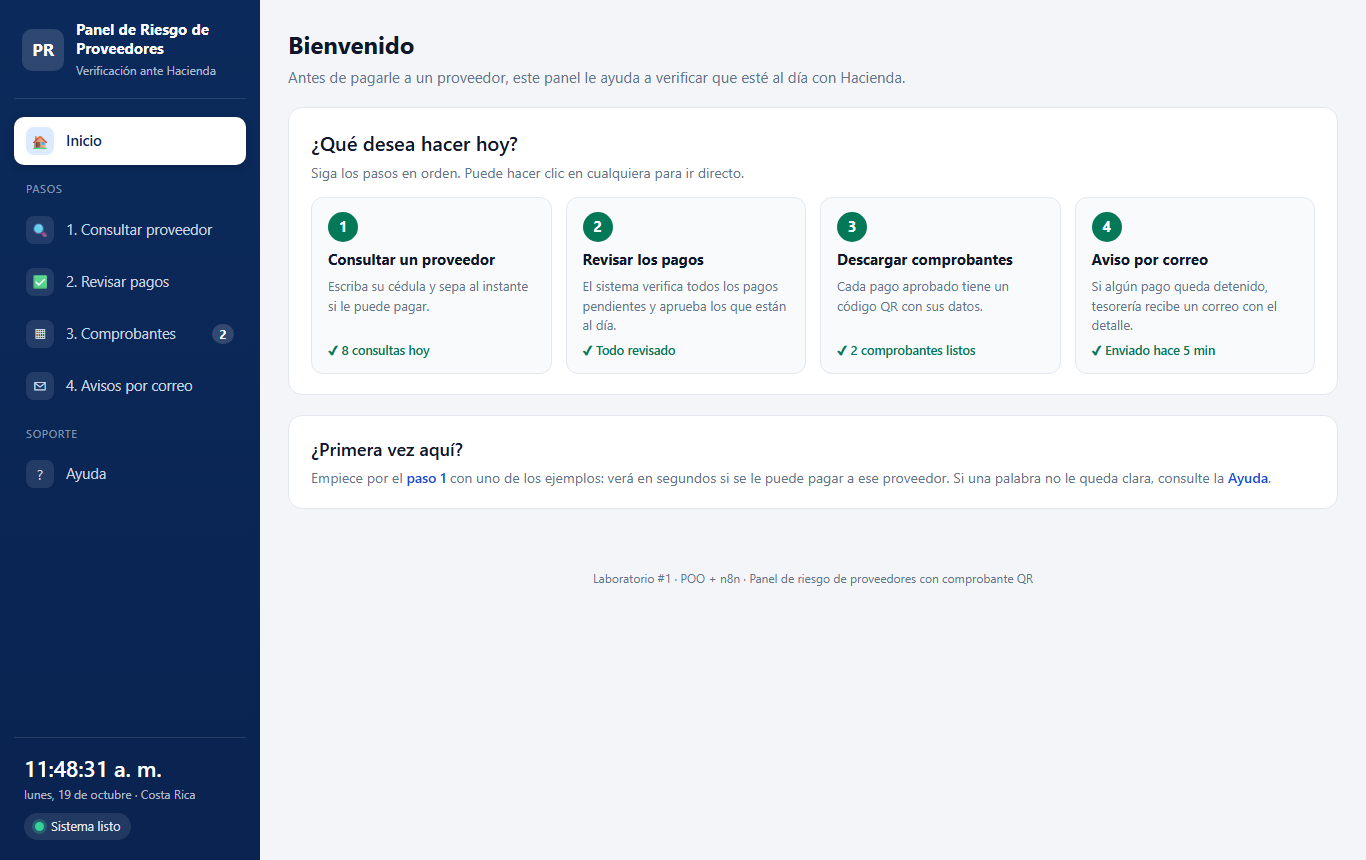
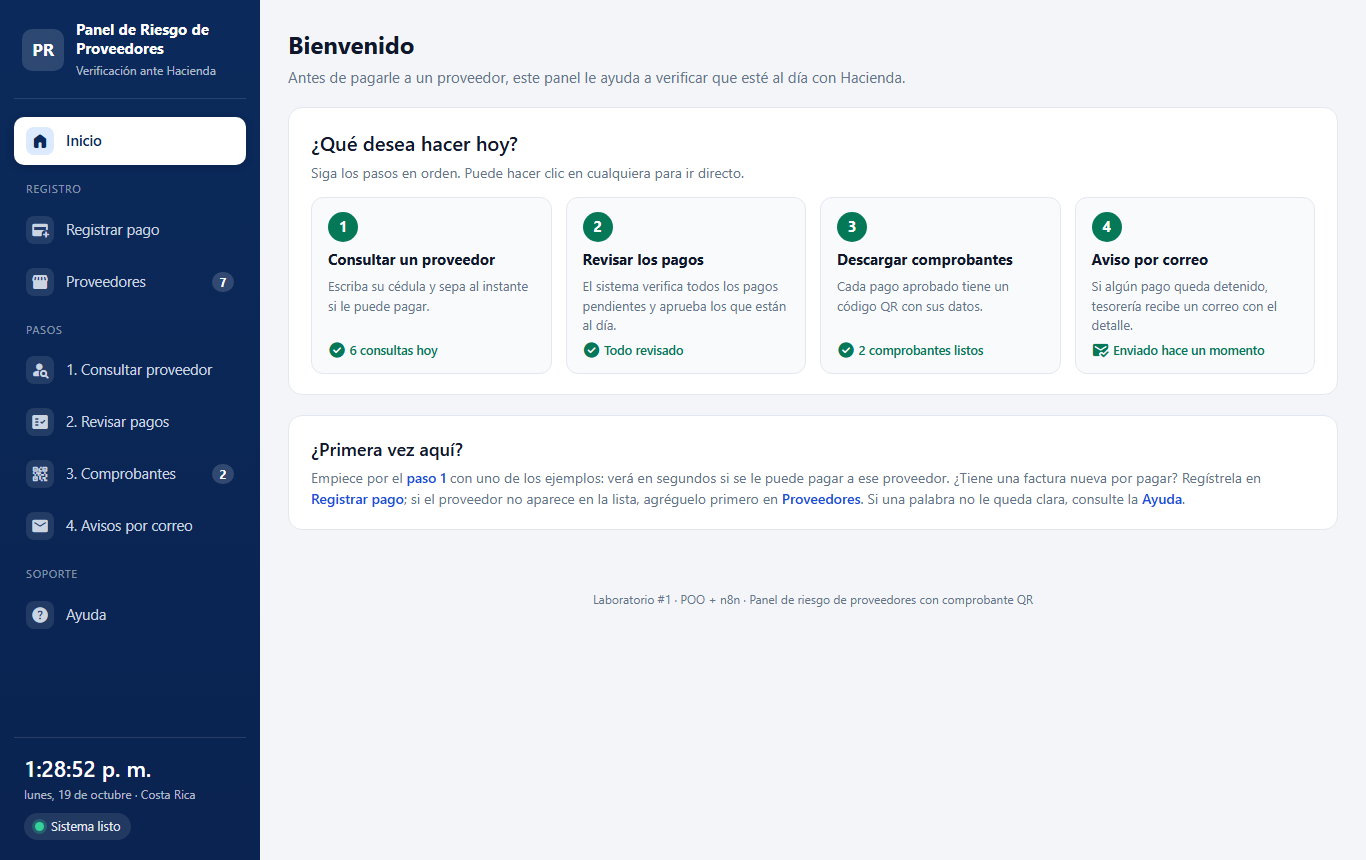
Panel: íconos de Google Fonts (Material Symbols) y capturas de los formularios
- Emojis reemplazados por Material Symbols Rounded en menú, indicadores, avance y mensajes
- Formularios de pagos y proveedores probados: validación, alta, duplicados y activar/desactivar
- README y documento con las pantallas de registro

diff --git a/public/index.html b/public/index.html
@@ -4,6 +4,9 @@
 <meta charset="utf-8">
 <meta name="viewport" content="width=device-width, initial-scale=1">
 <title>Panel de Riesgo de Proveedores</title>
+<link rel="preconnect" href="https://fonts.googleapis.com">
+<link rel="preconnect" href="https://fonts.gstatic.com" crossorigin>
+<link rel="stylesheet" href="https://fonts.googleapis.com/css2?family=Material+Symbols+Rounded:opsz,wght,FILL,GRAD@20..48,400..600,0..1,0&display=block">
 <style>
   :root {
     --fondo: #f3f5f9; --tarjeta: #ffffff; --borde: #e3e8f0; --texto: #0f172a; --suave: #64748b;
@@ -11,6 +14,19 @@
     --aviso: #b45309; --aviso-bg: #fef3c7; --gris-bg: #eef2f7; --info: #1d4ed8; --info-bg: #dbeafe;
   }
   * { box-sizing: border-box; }
+  /* Íconos de Google Fonts: <span class="ms">nombre</span> */
+  .ms { font-family: 'Material Symbols Rounded'; font-weight: normal; font-style: normal; font-size: 20px; line-height: 1; letter-spacing: normal; text-transform: none; display: inline-block; white-space: nowrap; direction: ltr; -webkit-font-smoothing: antialiased; font-variation-settings: 'FILL' 1, 'wght' 500, 'GRAD' 0, 'opsz' 24; vertical-align: -4px; user-select: none; }
+  .ms.linea { font-variation-settings: 'FILL' 0, 'wght' 500, 'GRAD' 0, 'opsz' 24; }
+  .icono-menu .ms { font-size: 18px; vertical-align: 0; }
+  .seccion-titulo .num .ms { font-size: 20px; vertical-align: 0; }
+  .veredicto .icono .ms { font-size: 22px; vertical-align: 0; font-variation-settings: 'FILL' 1, 'wght' 700, 'GRAD' 0, 'opsz' 24; }
+  .progreso li .marca .ms { font-size: 15px; vertical-align: 0; font-variation-settings: 'FILL' 1, 'wght' 700, 'GRAD' 0, 'opsz' 20; }
+  .correo-estado .icono .ms { font-size: 30px; vertical-align: 0; color: var(--marca-2); }
+  .kpi .rotulo .ms { font-size: 18px; color: var(--c); }
+  .paso .estado .ms, .mensaje-form .ms { font-size: 18px; }
+  #progreso-titulo .ms { color: var(--ok); }
+  details.glosario summary .ms { color: var(--marca-2); }
+  .ayuda .ms { font-size: 17px; color: #ca8a04; }
   html { scroll-behavior: smooth; }
   body { margin: 0; background: var(--fondo); color: var(--texto); font: 15px/1.5 'Segoe UI', system-ui, -apple-system, Arial, sans-serif; }
   /* Estructura: menú lateral + contenido */
@@ -217,17 +233,17 @@
   </div>
   <nav aria-label="Menú principal">
     <ul class="menu">
-      <li><a href="#inicio" data-vista="inicio"><span class="icono-menu">🏠</span>Inicio</a></li>
+      <li><a href="#inicio" data-vista="inicio"><span class="icono-menu"><span class="ms" aria-hidden="true">home</span></span>Inicio</a></li>
       <li class="titulo-grupo">Registro</li>
-      <li><a href="#nuevo-pago" data-vista="nuevo-pago"><span class="icono-menu">＋</span>Registrar pago</a></li>
-      <li><a href="#proveedores" data-vista="proveedores"><span class="icono-menu">🏢</span>Proveedores<span class="contador" id="m-proveedores"></span></a></li>
+      <li><a href="#nuevo-pago" data-vista="nuevo-pago"><span class="icono-menu"><span class="ms" aria-hidden="true">add_card</span></span>Registrar pago</a></li>
+      <li><a href="#proveedores" data-vista="proveedores"><span class="icono-menu"><span class="ms" aria-hidden="true">storefront</span></span>Proveedores<span class="contador" id="m-proveedores"></span></a></li>
       <li class="titulo-grupo">Pasos</li>
-      <li><a href="#paso1" data-vista="paso1"><span class="icono-menu">🔍</span>1. Consultar proveedor</a></li>
-      <li><a href="#paso2" data-vista="paso2"><span class="icono-menu">✅</span>2. Revisar pagos<span class="contador alerta-c" id="m-pendientes"></span></a></li>
-      <li><a href="#paso3" data-vista="paso3"><span class="icono-menu">▦</span>3. Comprobantes<span class="contador" id="m-comprobantes"></span></a></li>
-      <li><a href="#paso4" data-vista="paso4"><span class="icono-menu">✉</span>4. Avisos por correo</a></li>
+      <li><a href="#paso1" data-vista="paso1"><span class="icono-menu"><span class="ms" aria-hidden="true">person_search</span></span>1. Consultar proveedor</a></li>
+      <li><a href="#paso2" data-vista="paso2"><span class="icono-menu"><span class="ms" aria-hidden="true">fact_check</span></span>2. Revisar pagos<span class="contador alerta-c" id="m-pendientes"></span></a></li>
+      <li><a href="#paso3" data-vista="paso3"><span class="icono-menu"><span class="ms" aria-hidden="true">qr_code_2</span></span>3. Comprobantes<span class="contador" id="m-comprobantes"></span></a></li>
+      <li><a href="#paso4" data-vista="paso4"><span class="icono-menu"><span class="ms" aria-hidden="true">mail</span></span>4. Avisos por correo</a></li>
       <li class="titulo-grupo">Soporte</li>
-      <li><a href="#ayuda" data-vista="ayuda"><span class="icono-menu">?</span>Ayuda</a></li>
+      <li><a href="#ayuda" data-vista="ayuda"><span class="icono-menu"><span class="ms" aria-hidden="true">help</span></span>Ayuda</a></li>
     </ul>
   </nav>
   <div class="pie-sidebar">
@@ -284,7 +300,7 @@
 
   <!-- REGISTRAR PAGO -->
   <section class="tarjeta vista" id="nuevo-pago">
-    <div class="seccion-titulo"><span class="num">＋</span><h2>Registrar un pago nuevo</h2></div>
+    <div class="seccion-titulo"><span class="num"><span class="ms" aria-hidden="true">add_card</span></span><h2>Registrar un pago nuevo</h2></div>
     <p class="sub">Anote aquí cada factura que haya que pagarle a un proveedor. Queda como <b>«Por revisar»</b> hasta que la revisión del paso 2 la verifique en Hacienda.</p>
     <form id="form-pago" class="formulario" novalidate>
       <label class="campo ancho">Proveedor
@@ -315,7 +331,7 @@
 
   <!-- PROVEEDORES -->
   <section class="tarjeta vista" id="proveedores">
-    <div class="seccion-titulo"><span class="num">🏢</span><h2>Proveedores de la empresa</h2></div>
+    <div class="seccion-titulo"><span class="num"><span class="ms" aria-hidden="true">storefront</span></span><h2>Proveedores de la empresa</h2></div>
     <p class="sub">Solo se les puede registrar pagos a los proveedores de esta lista. Un proveedor <b>inactivo</b> no recibe pagos (sus pagos quedan detenidos).</p>
     <div class="rejilla">
       <div>
@@ -367,7 +383,7 @@
           <input type="text" id="cedula" placeholder="Cédula, por ejemplo 3-101-123456" autocomplete="off" required aria-label="Cédula del proveedor">
           <button type="submit" id="btn">Consultar</button>
         </form>
-        <div class="ayuda">💡 La cédula aparece en la factura electrónica del proveedor. Puede escribirla con o sin guiones.</div>
+        <div class="ayuda"><span class="ms" aria-hidden="true">lightbulb</span> La cédula aparece en la factura electrónica del proveedor. Puede escribirla con o sin guiones.</div>
         <div class="ejemplos">Ejemplos para probar:
           <span class="chip" data-c="4000042149">Universidad de Costa Rica</span>
           <span class="chip" data-c="4000042139">ICE</span>
@@ -422,10 +438,10 @@
     </div>
 
     <div class="kpis">
-      <div class="kpi" style="--c:#047857"><div class="rotulo">✔ Aprobados</div><div class="valor" id="k-aprobado">–</div><div class="detalle" id="k-monto">—</div></div>
-      <div class="kpi" style="--c:#b91c1c"><div class="rotulo">✖ Detenidos</div><div class="valor" id="k-retenido">–</div><div class="detalle">No pagar hasta resolver</div></div>
-      <div class="kpi" style="--c:#1d4ed8"><div class="rotulo">👤 Necesitan aprobación</div><div class="valor" id="k-revision_manual">–</div><div class="detalle">Los decide un supervisor</div></div>
-      <div class="kpi" style="--c:#b45309"><div class="rotulo">⏳ Por revisar</div><div class="valor" id="k-pendientes">–</div><div class="detalle">Esperando la revisión</div></div>
+      <div class="kpi" style="--c:#047857"><div class="rotulo"><span class="ms" aria-hidden="true">check_circle</span> Aprobados</div><div class="valor" id="k-aprobado">–</div><div class="detalle" id="k-monto">—</div></div>
+      <div class="kpi" style="--c:#b91c1c"><div class="rotulo"><span class="ms" aria-hidden="true">block</span> Detenidos</div><div class="valor" id="k-retenido">–</div><div class="detalle">No pagar hasta resolver</div></div>
+      <div class="kpi" style="--c:#1d4ed8"><div class="rotulo"><span class="ms" aria-hidden="true">supervisor_account</span> Necesitan aprobación</div><div class="valor" id="k-revision_manual">–</div><div class="detalle">Los decide un supervisor</div></div>
+      <div class="kpi" style="--c:#b45309"><div class="rotulo"><span class="ms" aria-hidden="true">hourglass_top</span> Por revisar</div><div class="valor" id="k-pendientes">–</div><div class="detalle">Esperando la revisión</div></div>
     </div>
 
     <div class="barra">
@@ -459,7 +475,7 @@
   <section class="tarjeta vista" id="paso4">
     <div class="seccion-titulo"><span class="num">4</span><h2>Avisos por correo a tesorería</h2></div>
     <p class="sub">Después de cada revisión, si hay pagos detenidos o que necesitan aprobación, se envía un correo con el resumen. Si todo sale aprobado, no se envía nada.</p>
-    <div class="correo-estado" id="correo-estado"><span class="icono">✉</span><div>Cargando…</div></div>
+    <div class="correo-estado" id="correo-estado"><span class="icono"><span class="ms" aria-hidden="true">mail</span></span><div>Cargando…</div></div>
     <div class="tabla-scroll">
       <table>
         <thead><tr><th>Revisión</th><th>Resultado</th><th>Correo</th></tr></thead>
@@ -471,7 +487,7 @@
 
   <section class="tarjeta vista" id="ayuda">
     <details class="glosario" open>
-      <summary>📖 ¿Qué significa cada estado?</summary>
+      <summary><span class="ms" aria-hidden="true">menu_book</span> ¿Qué significa cada estado?</summary>
       <div class="glosario-lista">
         <div><span class="etiqueta e-verde">Aprobado</span><p>El proveedor está al día con Hacienda. Se puede pagar; el comprobante QR está en el paso 3.</p></div>
         <div><span class="etiqueta e-rojo">Detenido</span><p>No se debe pagar: el proveedor tiene deudas o declaraciones pendientes con Hacienda, no está registrado o sus datos están mal.</p></div>
@@ -497,12 +513,12 @@
 
   // ---------- Textos en lenguaje sencillo ----------
   const CONSULTA = {
-    apto: { color: 'verde', icono: '✔', titulo: 'Sí, puede pagarle', etiqueta: 'Se puede pagar', explicacion: 'El proveedor está al día con Hacienda: no tiene deudas ni declaraciones pendientes.', hacer: 'Registre el pago normalmente.' },
-    no_apto: { color: 'rojo', icono: '✖', titulo: 'No le pague todavía', etiqueta: 'No pagar', hacer: 'Pídale al proveedor que se ponga al día con Hacienda y vuelva a consultar después.' },
-    no_registrado: { color: 'rojo', icono: '✖', titulo: 'Esta cédula no aparece en Hacienda', etiqueta: 'No registrado', explicacion: 'La cédula tiene el formato correcto, pero no está registrada como contribuyente.', hacer: 'Compare la cédula con la factura. Si está bien escrita, no realice el pago y consulte con su supervisor.' },
-    cedula_invalida: { color: 'amarillo', icono: '!', titulo: 'Revise la cédula', etiqueta: 'Cédula mal escrita', explicacion: 'El número no tiene un formato válido: debe tener de 9 a 12 dígitos.', hacer: 'Escríbala de nuevo tal como aparece en la factura (puede usar guiones).' },
-    error_consulta: { color: 'amarillo', icono: '!', titulo: 'Hacienda no respondió', etiqueta: 'Sin respuesta', explicacion: 'El sistema de Hacienda no contestó en este momento.', hacer: 'Intente de nuevo en unos minutos.' },
-    sin_sistema: { color: 'amarillo', icono: '!', titulo: 'El sistema no está disponible', etiqueta: 'Error', explicacion: 'No hay conexión con el motor de automatización (n8n).', hacer: 'Pida a soporte que abra n8n y vuelva a intentar.' }
+    apto: { color: 'verde', icono: 'check', titulo: 'Sí, puede pagarle', etiqueta: 'Se puede pagar', explicacion: 'El proveedor está al día con Hacienda: no tiene deudas ni declaraciones pendientes.', hacer: 'Registre el pago normalmente.' },
+    no_apto: { color: 'rojo', icono: 'close', titulo: 'No le pague todavía', etiqueta: 'No pagar', hacer: 'Pídale al proveedor que se ponga al día con Hacienda y vuelva a consultar después.' },
+    no_registrado: { color: 'rojo', icono: 'close', titulo: 'Esta cédula no aparece en Hacienda', etiqueta: 'No registrado', explicacion: 'La cédula tiene el formato correcto, pero no está registrada como contribuyente.', hacer: 'Compare la cédula con la factura. Si está bien escrita, no realice el pago y consulte con su supervisor.' },
+    cedula_invalida: { color: 'amarillo', icono: 'priority_high', titulo: 'Revise la cédula', etiqueta: 'Cédula mal escrita', explicacion: 'El número no tiene un formato válido: debe tener de 9 a 12 dígitos.', hacer: 'Escríbala de nuevo tal como aparece en la factura (puede usar guiones).' },
+    error_consulta: { color: 'amarillo', icono: 'priority_high', titulo: 'Hacienda no respondió', etiqueta: 'Sin respuesta', explicacion: 'El sistema de Hacienda no contestó en este momento.', hacer: 'Intente de nuevo en unos minutos.' },
+    sin_sistema: { color: 'amarillo', icono: 'priority_high', titulo: 'El sistema no está disponible', etiqueta: 'Error', explicacion: 'No hay conexión con el motor de automatización (n8n).', hacer: 'Pida a soporte que abra n8n y vuelva a intentar.' }
   };
   const ESTADO_PAGO = {
     aprobado: { texto: 'Aprobado', clase: 'e-verde' },
@@ -535,6 +551,7 @@
 
   // ---------- Utilidades ----------
   const $ = (id) => document.getElementById(id);
+  const ic = (nombre) => `<span class="ms" aria-hidden="true">${nombre}</span>`;
   const esc = (s) => String(s ?? '').replace(/[&<>"']/g, (c) => ({ '&': '&amp;', '<': '&lt;', '>': '&gt;', '"': '&quot;', "'": '&#39;' }[c]));
   const horaLocal = (iso) => iso ? new Date(iso).toLocaleString('es-CR', { timeZone: ZONA, day: '2-digit', month: 'short', hour: '2-digit', minute: '2-digit', hour12: true }) : '—';
   const diaLocal = (fecha) => fecha.toLocaleDateString('en-CA', { timeZone: ZONA });
@@ -626,15 +643,15 @@
     const ultima = datos.revisiones[0];
     const marcar = (id, hecho, texto, color) => {
       $(id).classList.toggle('hecho', hecho);
-      $(id + '-estado').textContent = texto;
+      $(id + '-estado').innerHTML = texto;
       $(id + '-estado').style.color = color;
     };
-    marcar('guia1', consultasHoy > 0, consultasHoy ? `✔ ${consultasHoy} consulta${consultasHoy > 1 ? 's' : ''} hoy` : 'Aún no ha consultado hoy', consultasHoy ? 'var(--ok)' : 'var(--suave)');
-    marcar('guia2', pendientes === 0 && datos.pagos.length > 0, pendientes ? `⏳ ${pendientes} pago${pendientes > 1 ? 's' : ''} por revisar` : '✔ Todo revisado', pendientes ? 'var(--aviso)' : 'var(--ok)');
+    marcar('guia1', consultasHoy > 0, consultasHoy ? `${ic('check_circle')} ${consultasHoy} consulta${consultasHoy > 1 ? 's' : ''} hoy` : 'Aún no ha consultado hoy', consultasHoy ? 'var(--ok)' : 'var(--suave)');
+    marcar('guia2', pendientes === 0 && datos.pagos.length > 0, pendientes ? `${ic('hourglass_top')} ${pendientes} pago${pendientes > 1 ? 's' : ''} por revisar` : `${ic('check_circle')} Todo revisado`, pendientes ? 'var(--aviso)' : 'var(--ok)');
     $('m-pendientes').textContent = pendientes || '';
     $('m-comprobantes').textContent = comprobantes || '';
-    marcar('guia3', comprobantes > 0, comprobantes ? `✔ ${comprobantes} comprobante${comprobantes > 1 ? 's' : ''} listo${comprobantes > 1 ? 's' : ''}` : 'Aparecen al aprobar pagos', comprobantes ? 'var(--ok)' : 'var(--suave)');
-    const textoCorreo = !ultima ? 'Se envía tras la revisión' : ultima.correoEnviado ? `✔ Enviado ${hace(ultima.fecha)}` : ultima.correoNecesario ? '⚠ No se pudo enviar' : '✔ No fue necesario';
+    marcar('guia3', comprobantes > 0, comprobantes ? `${ic('check_circle')} ${comprobantes} comprobante${comprobantes > 1 ? 's' : ''} listo${comprobantes > 1 ? 's' : ''}` : 'Aparecen al aprobar pagos', comprobantes ? 'var(--ok)' : 'var(--suave)');
+    const textoCorreo = !ultima ? 'Se envía tras la revisión' : ultima.correoEnviado ? `${ic('mark_email_read')} Enviado ${hace(ultima.fecha)}` : ultima.correoNecesario ? `${ic('warning')} No se pudo enviar` : `${ic('check_circle')} No fue necesario`;
     marcar('guia4', !!ultima && (ultima.correoEnviado || !ultima.correoNecesario), textoCorreo, !ultima ? 'var(--suave)' : ultima.correoNecesario && !ultima.correoEnviado ? 'var(--mal)' : 'var(--ok)');
   }
 
@@ -650,7 +667,7 @@
     const s = c.situacion;
     $('resultado').className = 'resultado visible ' + info.color;
     $('resultado').innerHTML = `
-      <div class="veredicto"><span class="icono">${info.icono}</span>${esc(info.titulo)}</div>
+      <div class="veredicto"><span class="icono">${ic(info.icono)}</span>${esc(info.titulo)}</div>
       ${c.nombre ? `<div class="nombre">${esc(c.nombre)}</div>` : ''}
       <div class="bloque"><b>Por qué</b>${esc(textoConsulta(c))}</div>
       <div class="bloque"><b>Qué hacer ahora</b>${esc(info.hacer)}</div>
@@ -745,7 +762,7 @@
   function etapa(n, estado, texto) {
     const li = $('et-' + n);
     li.className = estado;
-    li.querySelector('.marca').textContent = estado === 'listo' ? '✓' : estado === 'fallo' ? '!' : '';
+    li.querySelector('.marca').innerHTML = estado === 'listo' ? ic('check') : estado === 'fallo' ? ic('priority_high') : '';
     if (texto && $('et-' + n + '-texto')) $('et-' + n + '-texto').textContent = texto;
   }
 
@@ -800,7 +817,7 @@
         etapa(4, 'fallo', 'No se pudo enviar el correo (revise la configuración de Gmail en n8n)');
       }
       const t = (revision && revision.totales) || {};
-      $('progreso-titulo').textContent = '✔ Revisión terminada';
+      $('progreso-titulo').innerHTML = `${ic('task_alt')} Revisión terminada`;
       $('resumen-final').style.display = 'block';
       $('resumen-final').innerHTML = `Resultado: <b style="color:var(--ok)">${t.aprobado || 0} aprobado${t.aprobado === 1 ? '' : 's'}</b>, <b style="color:var(--mal)">${t.retenido || 0} detenido${t.retenido === 1 ? '' : 's'}</b>, <b style="color:var(--info)">${t.revision_manual || 0} necesita${t.revision_manual === 1 ? '' : 'n'} aprobación</b>${t.error_verificacion ? `, <b style="color:var(--aviso)">${t.error_verificacion} se reintentará${t.error_verificacion === 1 ? '' : 'n'}</b>` : ''}. Revise la columna «Qué hacer» de la tabla, y los comprobantes en el <a class="enlace" href="#paso3">paso 3</a>.`;
     } catch (e) {
@@ -837,20 +854,20 @@
   // ---------- Paso 4: correo ----------
   function pintarCorreo() {
     const ultima = datos.revisiones[0];
-    let icono = '✉', html;
+    let icono = 'mail', html;
     if (!ultima) {
       html = '<b>Todavía no hay revisiones registradas.</b><div class="detalle">Cuando ejecute el paso 2, aquí verá si se avisó a tesorería.</div>';
     } else if (ultima.correoEnviado) {
-      icono = '✅';
+      icono = 'mark_email_read';
       html = `<b>Último aviso enviado ${hace(ultima.fecha)}</b><div class="detalle">Asunto: «${esc(ultima.asunto)}». Revise la bandeja de entrada de tesorería (o la carpeta de spam la primera vez).</div>`;
     } else if (!ultima.correoNecesario) {
-      icono = '👍';
+      icono = 'thumb_up';
       html = `<b>En la última revisión (${hace(ultima.fecha)}) no hizo falta avisar</b><div class="detalle">Todos los pagos revisados se aprobaron.</div>`;
     } else {
-      icono = '⚠';
+      icono = 'warning';
       html = `<b>La última revisión no pudo enviar el correo</b><div class="detalle">Había pagos detenidos, pero falló el envío. Revise la credencial de Gmail en n8n (contraseña de aplicación).</div>`;
     }
-    $('correo-estado').innerHTML = `<span class="icono">${icono}</span><div>${html}</div>`;
+    $('correo-estado').innerHTML = `<span class="icono">${ic(icono)}</span><div>${html}</div>`;
     $('revisiones').innerHTML = datos.revisiones.slice(0, 8).map((r) => {
       const t = r.totales || {};
       const correo = r.correoEnviado ? '<span class="etiqueta e-verde">Enviado</span>' : r.correoNecesario ? '<span class="etiqueta e-rojo">Falló</span>' : '<span class="etiqueta e-gris">No hizo falta</span>';
@@ -917,7 +934,7 @@
       if (!r.ok) throw new Error('HTTP ' + r.status);
       $('form-pago').reset(); avisoMonto();
       await cargarDatos();
-      mensaje('pago-mensaje', 'ok', `✔ Pago <b>${esc(pago.id)}</b> registrado: ${esc(nombreProveedor(pago.proveedorId))}, ${esc(pago.montoFormateado())}. Quedó <b>«Por revisar»</b>.<br><button type="button" onclick="location.hash='paso2'">Ir a revisar los pagos</button>`);
+      mensaje('pago-mensaje', 'ok', `${ic('check_circle')} Pago <b>${esc(pago.id)}</b> registrado: ${esc(nombreProveedor(pago.proveedorId))}, ${esc(pago.montoFormateado())}. Quedó <b>«Por revisar»</b>.<br><button type="button" onclick="location.hash='paso2'">Ir a revisar los pagos</button>`);
     } catch {
       mensaje('pago-mensaje', 'error', 'No se pudo guardar el pago: no hay conexión con los datos (JSON Server).');
     }
@@ -943,7 +960,7 @@
       if (!r.ok) throw new Error('HTTP ' + r.status);
       $('form-proveedor').reset();
       await cargarDatos();
-      mensaje('prov-mensaje', 'ok', `✔ Proveedor <b>${esc(proveedor.nombre)}</b> agregado. Ya puede registrarle pagos.<br><button type="button" data-consultar="${esc(proveedor.cedula)}">Consultarlo en Hacienda</button><button type="button" class="secundario" onclick="location.hash='nuevo-pago'">Registrarle un pago</button>`);
+      mensaje('prov-mensaje', 'ok', `${ic('check_circle')} Proveedor <b>${esc(proveedor.nombre)}</b> agregado. Ya puede registrarle pagos.<br><button type="button" data-consultar="${esc(proveedor.cedula)}">Consultarlo en Hacienda</button><button type="button" class="secundario" onclick="location.hash='nuevo-pago'">Registrarle un pago</button>`);
     } catch {
       mensaje('prov-mensaje', 'error', 'No se pudo guardar el proveedor: no hay conexión con los datos (JSON Server).');
     }

diff --git a/README.md b/README.md
@@ -97,7 +97,9 @@ classDiagram
 │   └── ResumenRevision.js   correo de resumen para tesorería (extensión, reto 3)
 ├── main.js                  prueba las clases por consola sin n8n
 ├── tests/                   30 pruebas automatizadas (reglas, errores, diagnóstico, POO y correo)
-├── public/index.html        panel web (extra opcional), lo sirve JSON Server
+├── public/                  panel web (extra opcional), lo sirve JSON Server
+│   ├── index.html
+│   └── clases.js            copia de src/ generada para validar los formularios
 ├── db.json                  base de datos de JSON Server (local, no se sube a Git)
 ├── data/
 │   ├── db.inicial.json      datos de prueba originales (para reiniciar)
@@ -138,11 +140,13 @@ Si se cambia una clase de `src/`, regenerar los workflows con `npm run build:wor
 
 > El laboratorio pide una solución "sin interfaz visual". El panel es un **agregado**: no reemplaza ni modifica el workflow principal, y usa las mismas clases.
 
-Panel en **http://127.0.0.1:3000** (lo sirve JSON Server desde `public/`). Está pensado para alguien que nunca lo ha usado: un menú lateral lleva paso a paso por las cuatro tareas, cada resultado se explica en lenguaje sencillo con **qué hacer ahora**, y la sección *Ayuda* explica cada estado.
+Panel en **http://127.0.0.1:3000** (lo sirve JSON Server desde `public/`). Los datos no están fijos en el código: pagos y proveedores se registran desde el panel, y los formularios validan con las mismas clases de `src/`, que `npm run build:workflow` copia a `public/clases.js`. Los íconos son Material Symbols de Google Fonts. Está pensado para alguien que nunca lo ha usado: un menú lateral lleva paso a paso por las cuatro tareas, cada resultado se explica en lenguaje sencillo con **qué hacer ahora**, y la sección *Ayuda* explica cada estado.
 
 | Opción del menú | Qué permite |
 |---|---|
 | **Inicio** | Guía de los 4 pasos con el estado de cada uno (consultas de hoy, pagos por revisar, comprobantes, último correo). |
+| **Registrar pago** | Formulario para anotar un pago nuevo (proveedor de una lista, monto, moneda, concepto, fecha de vencimiento con calendario). Se guarda en JSON Server como *pendiente*. Valida con `Pago.camposFaltantes()` y avisa con `requiereAprobacionManual()` si el monto irá a un supervisor. |
+| **Proveedores** | Lista de proveedores, alta de uno nuevo (valida la cédula con `Proveedor.validarCedula()` y evita repetidos), activar o desactivar (R7) y consultar en Hacienda con un clic. |
 | **1. Consultar proveedor** | Escribir una cédula (acepta guiones) y saber si se le puede pagar, por qué y qué hacer; historial con hora de Costa Rica y filtro *Se puede pagar / No pagar*. |
 | **2. Revisar pagos** | Botón que lanza el workflow principal (`POST /webhook/revision-pagos`) y muestra el avance por etapas; tabla de pagos con filtros y una columna *Qué hacer*. |
 | **3. Comprobantes** | Los QR de los pagos aprobados, para escanear, abrir o descargar. |
@@ -151,6 +155,10 @@ Panel en **http://127.0.0.1:3000** (lo sirve JSON Server desde `public/`). Está
 ![Panel: inicio](docs/img/panel-inicio.png)
 
 ![Panel: consulta de cédulas e historial](docs/img/panel-consultas.png)
+
+![Panel: registrar un pago](docs/img/panel-registro-pago.png)
+
+![Panel: proveedores](docs/img/panel-registro-proveedores.png)
 
 ![Panel: revisión de pagos](docs/img/panel-revision.png)
 
